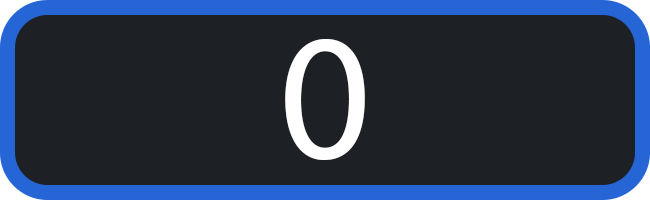
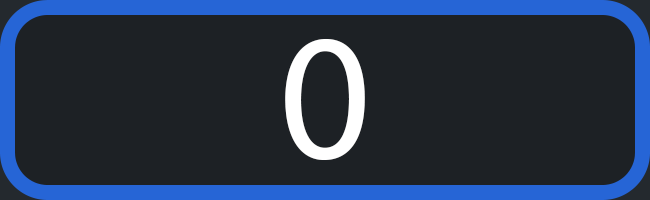
placed img layer and started resizing

diff --git a/Calculator.py b/Calculator.py
@@ -93,17 +93,26 @@ imgminus = PhotoImage(file="3.7-Calculator/minus.png")
 imgdivide = PhotoImage(file="3.7-Calculator/divide.png")
 
 szdimg0 = img0.subsample(5,5)
+szdimg0 = img0.subsample(5,5)
+szdimg0 = img0.subsample(5,5)
+szdimg0 = img0.subsample(5,5)
+szdimg0 = img0.subsample(5,5)
+szdimg0 = img0.subsample(5,5)
+szdimg0 = img0.subsample(5,5)
+szdimg0 = img0.subsample(5,5)
+szdimg0 = img0.subsample(5,5)
 
-button0 = Button(main, text="0", padx=65, pady=20, image=szdimg0, command=lambda: on_click(0)) #footnote 1 at bottom about Lambda
-button1 = Button(main, text="1", padx=20, pady=20, command=lambda: on_click(1))
-button2 = Button(main, text="2", padx=20, pady=20, command=lambda: on_click(2))
-button3 = Button(main, text="3", padx=20, pady=20, command=lambda: on_click(3))
-button4 = Button(main, text="4", padx=20, pady=20, command=lambda: on_click(4))
-button5 = Button(main, text="5", padx=20, pady=20, command=lambda: on_click(5))
-button6 = Button(main, text="6", padx=20, pady=20, command=lambda: on_click(6))
-button7 = Button(main, text="7", padx=20, pady=20, command=lambda: on_click(7))
-button8 = Button(main, text="8", padx=20, pady=20, command=lambda: on_click(8))
-button9 = Button(main, text="9", padx=20, pady=20, command=lambda: on_click(9))
+
+button0 = Button(main, text="0", padx=0, pady=0, border=0, image=szdimg0, command=lambda: on_click(0)) #footnote 1 at bottom about Lambda
+button1 = Button(main, text="1", padx=20, pady=20, image=szdimg1, command=lambda: on_click(1))
+button2 = Button(main, text="2", padx=20, pady=20, image=szdimg2, command=lambda: on_click(2))
+button3 = Button(main, text="3", padx=20, pady=20, image=szdimg3, command=lambda: on_click(3))
+button4 = Button(main, text="4", padx=20, pady=20, image=szdimg4, command=lambda: on_click(4))
+button5 = Button(main, text="5", padx=20, pady=20, image=szdimg5, command=lambda: on_click(5))
+button6 = Button(main, text="6", padx=20, pady=20, image=szdimg6, command=lambda: on_click(6))
+button7 = Button(main, text="7", padx=20, pady=20, image=szdimg7, command=lambda: on_click(7))
+button8 = Button(main, text="8", padx=20, pady=20, image=szdimg8, command=lambda: on_click(8))
+button9 = Button(main, text="9", padx=20, pady=20, image=szdimg9, command=lambda: on_click(9))
 
 equalbutton = Button(main, text="=", padx=20, pady=20, command=on_equal)
 clearbutton = Button(main, text="C", padx=20, pady=20, command=on_clear)
